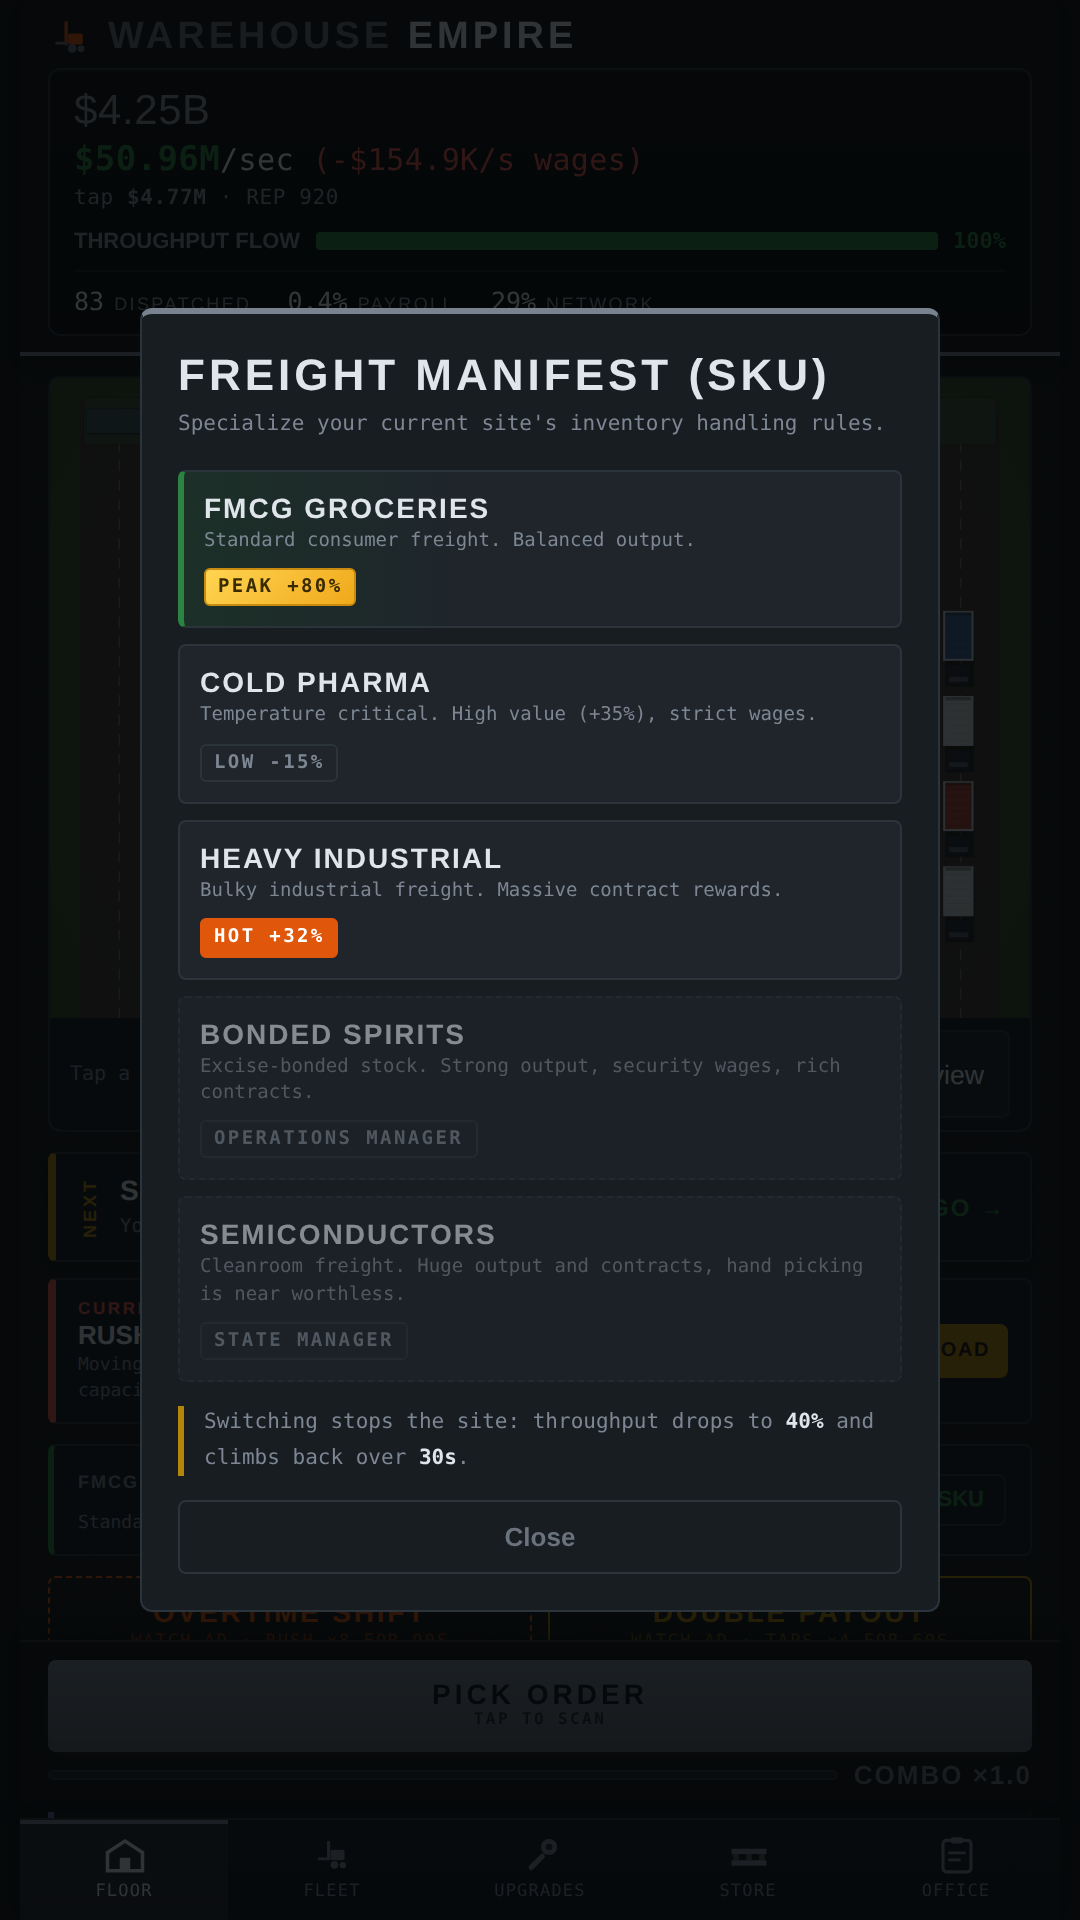
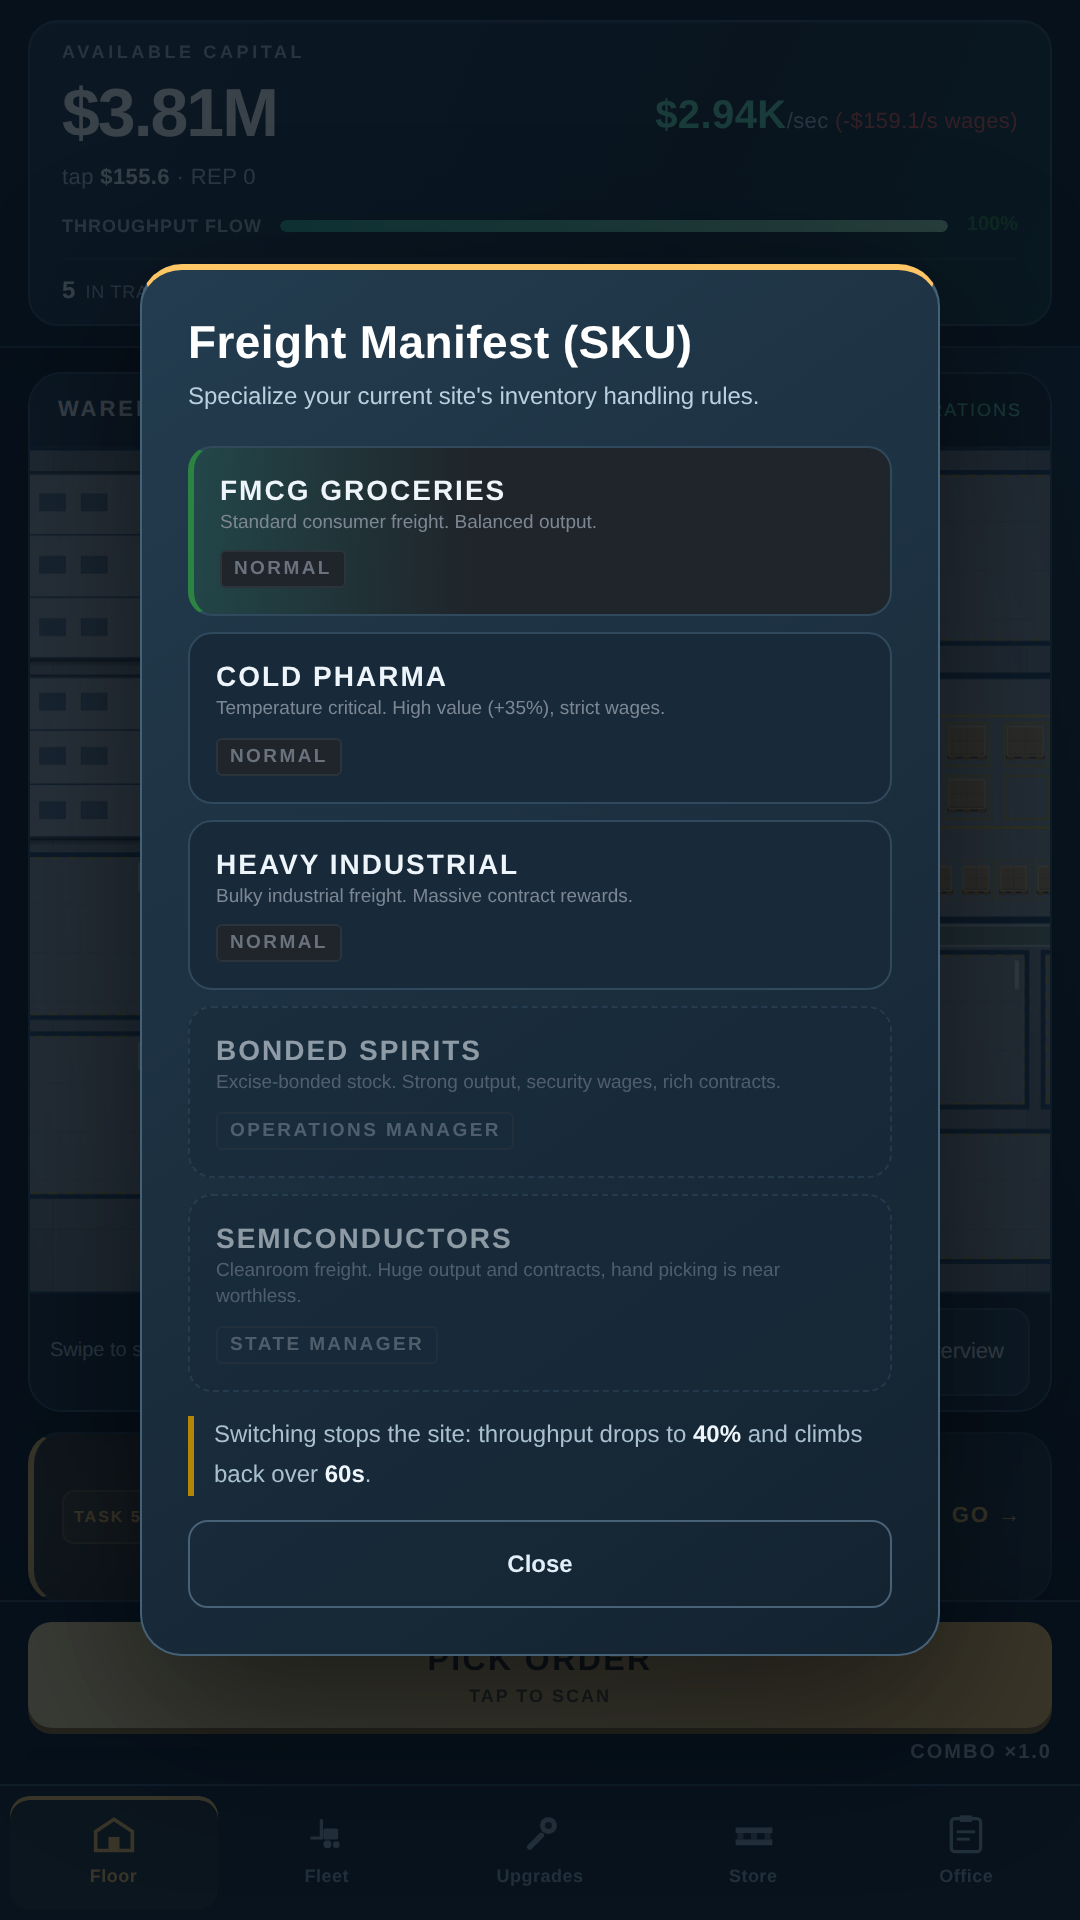
Recapture the store screenshots for 4.4, and commit the script that takes them
4.4 changed the three things every Floor shot contains -- the readout, the
cards below the site and the default camera -- so all eight were replaced.

05-zone is dropped for 02-last-truck: the opening shift is the release's
headline, docked above PICK ORDER with S04 two-thirds loaded. The rest keep
their subjects and listing sections, renumbered; the old files are removed
rather than left beside the new names. 08-network now shows the Melbourne
map.

tools/storeshots.js is committed this time. The 4.0 script lived in a
session scratchpad and had to be rebuilt from the README's description. Two
things it learned on the way, both in the README:

- A seasoned save opens on the streak calendar, which re-queues behind the
  review prompt and lands over the shot after being dismissed once. The
  seeded save marks today's stipend claimed and the one-time asks asked, and
  every shot but the manifests modal clears modals at the shutter.
- Port and night-livery need Overview. At the new working-building framing
  the quay and estate are out of frame, and every site is the same floor.

Every site shot had freight in flight (11-13 units), no page errors, and
analytics was answered locally. The 4.4 checklist now points at the new set.

Claude-Session: https://claude.ai/code/session_01PrK84LBuwqhXmUK59Cwd7A

diff --git a/tools/storeshots.js b/tools/storeshots.js
@@ -1,0 +1,160 @@
+// Play Store phone screenshots, 1080x1920. Run from the repo root after `npm install` in
+// tests/ (it borrows the suite's Playwright and browser lookup):
+//
+//   node tools/storeshots.js            # all eight, into docs/store-screenshots/
+//   node tools/storeshots.js 04 07      # only the shots whose names start with these
+//
+// Committed rather than left in a scratchpad this time: the 4.0 script was, and the next
+// recapture had to be rebuilt from the README's description of it.
+//
+// Each shot opens its own page from a seeded save, so no shot inherits another's state.
+// Google Analytics is answered with a 204 before it leaves the machine, and any page error
+// fails the run -- a screenshot of a broken build is worse than none.
+const path = require("path");
+const fs = require("fs");
+const P = require(path.join(__dirname, "..", "tests", "paths.js"));
+const B = require(path.join(__dirname, "..", "tests", "browser.js"));
+
+const OUT = path.join(__dirname, "..", "docs", "store-screenshots");
+const only = process.argv.slice(2);
+const errors = [];
+
+// A mid-game operation: enough plant that freight crosses the site continuously and the
+// Floor shows a live contract, past the opening shift so its card is not in the way.
+const MID = {
+  launches: 6, lifetime: 4.2e7, total: 4.2e7, money: 3.8e6, contractsDone: 9, taps: 1400,
+  owned: { picker: 60, trolley: 34, forklift: 18, reach: 8, conveyor: 3, sorter: 1 },
+  corp: { hr: 2, tower: 1 },
+  lastTruck: { version: 1, status: "complete", reportSeen: true }
+};
+const LATE = Object.assign({}, MID, {
+  lifetime: 6e13, total: 6e13, money: 4.1e12, rep: 180, prestiges: 6,
+  owned: { picker: 300, trolley: 200, forklift: 150, reach: 100, conveyor: 60, sorter: 30, crane: 12, hub: 5 },
+  corp: { hr: 6, customs: 4, marketing: 3, tower: 5, training: 2, solar: 2, depot: 1, server: 2 }
+});
+
+async function open(b, save){
+  const ctx = await b.newContext({ viewport: { width: 540, height: 960 }, deviceScaleFactor: 2,
+                                   isMobile: true, hasTouch: true });
+  await ctx.route(/google-analytics\.com/, r => r.fulfill({ status: 204, body: "" }));
+  // Today's stipend already claimed and every one-time ask already asked: a seasoned save
+  // otherwise opens on the streak calendar, which then re-queues behind the review prompt
+  // and lands over whatever the shot was of.
+  if (save) await ctx.addInitScript(sv => {
+    const now = Date.now();
+    const full = Object.assign({ lastDailyClaim: now - 60000, dailyStreak: 3, lastSeen: now,
+                                 reviewAsked: true, notifAsked: true }, sv);
+    try { localStorage.setItem("warehouse-empire-save", JSON.stringify(full)); } catch(e){}
+  }, save);
+  const p = await ctx.newPage();
+  p.on("pageerror", e => errors.push(e.message));
+  await p.goto("file://" + P.HTML);
+  await p.waitForTimeout(1800);
+  // A seasoned save earns the streak calendar, the review prompt and the like, and they
+  // queue behind one another. None of them is what any shot is of; the one shot that is of
+  // a modal opens it after this. Twice, for whichever was waiting behind the first.
+  for (let i = 0; i < 2; i++){
+    await p.evaluate(() => document.querySelectorAll(".modal-screen").forEach(m => { m.hidden = true; }));
+    await p.waitForTimeout(500);
+  }
+  return { ctx, p };
+}
+
+// Freight takes about ten seconds to cross the site. A frame grabbed before that shows an
+// empty plan -- the headline feature photographed as missing -- so wait, and say how much
+// was moving, so an idle shot is obvious rather than silent.
+async function settle(p, ms){
+  await p.waitForTimeout(ms || 11000);
+  return p.evaluate(() => window.__freightCount ? window.__freightCount() : -1);
+}
+async function tab(p, name){
+  await p.evaluate(n => document.querySelector('.tabs button[data-tab="' + n + '"]').click(), name);
+  await p.waitForTimeout(500);
+}
+async function shot(p, name, note, keepModal){
+  await p.evaluate(keep => {
+    const t = document.getElementById("toast"); if (t) t.classList.remove("show");
+    if (!keep) document.querySelectorAll(".modal-screen").forEach(m => { m.hidden = true; });
+  }, !!keepModal);
+  await p.screenshot({ path: path.join(OUT, name + ".png") });
+  console.log("  " + name + (note ? "  (" + note + ")" : ""));
+}
+
+const SHOTS = [
+  ["01-site", async b => {
+    const { ctx, p } = await open(b, MID);
+    const n = await settle(p);
+    await shot(p, "01-site", n + " freight in flight"); await ctx.close();
+  }],
+  ["02-last-truck", async b => {
+    // A fresh install, three pallets in and loading the last one: the opening shift with
+    // its task docked above PICK ORDER.
+    const { ctx, p } = await open(b, null);
+    await p.evaluate(() => { const h = window.state.lastTruck; h.cleared = 3; h.elapsed = 17; window.render(); });
+    await p.waitForTimeout(3000);
+    await shot(p, "02-last-truck"); await ctx.close();
+  }],
+  ["03-port", async b => {
+    // Overview: at the working-building framing the quay and the water are out of shot, and
+    // without them this is just another floor.
+    const { ctx, p } = await open(b, Object.assign({}, MID, { site: "port", prestiges: 2, rep: 40 }));
+    await p.click("#canvasOverview");
+    const n = await settle(p);
+    await shot(p, "03-port", n + " freight in flight"); await ctx.close();
+  }],
+  ["04-night-livery", async b => {
+    const { ctx, p } = await open(b, Object.assign({}, MID, { site: "hazmat", prestiges: 3, rep: 70,
+      theme: "nightshift", themesOwned: { nightshift: true } }));
+    await p.click("#canvasOverview");
+    const n = await settle(p);
+    await shot(p, "04-night-livery", n + " freight in flight"); await ctx.close();
+  }],
+  ["05-rush", async b => {
+    // A rush behind schedule: the one card that outranks everything, carrying Expedite.
+    const { ctx, p } = await open(b, MID);
+    await settle(p, 6000);
+    await p.evaluate(() => {
+      const s = window.state;
+      s.contract = { goal: 1.2e6, prog: 2.9e5, mins: 2, deadline: Date.now() + 71000,
+                     label: "RUSH: Clear the backlog", cash: 9.5e5, pallets: 5, rush: true };
+      window.render();
+    });
+    await p.waitForTimeout(600);
+    await p.evaluate(() => document.getElementById("objective").scrollIntoView({ block: "center" }));
+    await p.evaluate(() => document.getElementById("bottleneck").scrollIntoView({ block: "center" }));
+    await p.waitForTimeout(600);
+    await shot(p, "05-rush"); await ctx.close();
+  }],
+  ["06-manifests", async b => {
+    // A modal on purpose: nothing here may hide modals.
+    const { ctx, p } = await open(b, Object.assign({}, MID, { lifetime: 3e9, total: 3e9 }));
+    await p.evaluate(() => document.getElementById("openSkuBtn").click());
+    await p.waitForTimeout(700);
+    await shot(p, "06-manifests", "", true); await ctx.close();
+  }],
+  ["07-fleet", async b => {
+    const { ctx, p } = await open(b, Object.assign({}, MID, { money: 2.4e7 }));
+    await tab(p, "equip");
+    await shot(p, "07-fleet"); await ctx.close();
+  }],
+  ["08-network", async b => {
+    const names = ["Truganina","Dandenong","Laverton","Port Melbourne","Somerton","Keysborough","Derrimut",
+                   "Campbellfield","Braeside","Altona","Epping","Pakenham","Tullamarine","Clayton"];
+    const ids = ["general","cold","hazmat","port"];
+    const network = names.map((n, i) => ({ id: ids[i % 4], peak: 2.4e8 * (1 + (i * 7) % 5), suburb: n, inv: (i * 3) % 6 }));
+    const { ctx, p } = await open(b, Object.assign({}, LATE, { network }));
+    await tab(p, "office");
+    await p.evaluate(() => document.getElementById("netMapWrap").scrollIntoView({ block: "center" }));
+    await p.waitForTimeout(700);
+    await shot(p, "08-network"); await ctx.close();
+  }]
+];
+
+(async () => {
+  fs.mkdirSync(OUT, { recursive: true });
+  const b = await B.launch();
+  for (const [name, run] of SHOTS)
+    if (!only.length || only.some(o => name.startsWith(o))) await run(b);
+  await b.close();
+  if (errors.length){ console.error("page errors:\n  " + errors.join("\n  ")); process.exit(1); }
+})();

diff --git a/docs/store-screenshots/README.md b/docs/store-screenshots/README.md
@@ -1,44 +1,51 @@
 # Play Store phone screenshots
 
-Captured from **4.0 (v27)**. 1080×1920 (9:16), which is Play's phone aspect —
-a 540×960 viewport at deviceScaleFactor 2 hits it exactly, and the app's 520px
-max-width sits inside that on its own background, so the thin side bands read as
-page rather than letterboxing.
+Captured from **4.4 (v31)**. 1080×1920 (9:16), which is Play's phone aspect.
+A 540×960 viewport at deviceScaleFactor 2 hits it exactly.
 
 Play accepts 2–8 phone screenshots. This is eight, and the order matters: Play
-shows the first two or three side by side, and the site canvas is only about a
-fifth of a portrait frame, so **adjacent shots have to differ in colour** to read
-as different at thumbnail size.
+shows the first two or three side by side, so **adjacent shots have to differ**
+to read as different at thumbnail size.
 
 | | Shows | Listing section |
 |---|---|---|
-| `01-site` | The plan running, freight in transit, new steel chrome | WATCH THE SITE RUN |
-| `02-port` | Port Terminal — containers and open water | FOUR SITES |
-| `03-night-livery` | Dangerous Goods at night on another livery | FOUR SITES |
-| `04-rush` | A rush contract behind schedule, Priority Dispatch offered | RUN FREIGHT AGAINST THE CLOCK |
-| `05-zone` | Sorting inspected, with its equipment counts | WATCH THE SITE RUN |
-| `06-manifests` | All five, in three different market states, two locked | CHOOSE YOUR MANIFEST |
-| `07-fleet` | The eight-tier equipment ladder | CLIMB THE EQUIPMENT LADDER |
-| `08-network` | Retired sites as a managed layer | SELL UP AND BUILD A NETWORK |
+| `01-site` | The working building at the new opening zoom, freight in transit | WATCH THE SITE RUN |
+| `02-last-truck` | The opening shift: S04 two-thirds loaded, the task docked above PICK ORDER | *(new in 4.4)* |
+| `03-port` | Port Terminal in Overview: container stacks in the racking | FOUR SITES |
+| `04-night-livery` | Dangerous Goods on the Night Shift livery: drum cages, dark estate | FOUR SITES |
+| `05-rush` | A rush behind schedule: the bottleneck card with Expedite, and the Contracts panel | RUN FREIGHT AGAINST THE CLOCK |
+| `06-manifests` | All five, three open and two locked | CHOOSE YOUR MANIFEST |
+| `07-fleet` | The equipment ladder, with the marginal gain on each card | CLIMB THE EQUIPMENT LADDER |
+| `08-network` | Fourteen retired sites on the Melbourne map, above the list | SELL UP AND BUILD A NETWORK |
 
 ## Why the whole set was replaced
 
-The previous set was captured from 3.7 and every frame showed the hi-vis chrome
-that 4.0 removed, on a plan with no freight moving on it — so all eight
-photographed the two things this release changed, as absent.
+4.4 changed the three things every Floor shot contains: the readout (it folds, and
+the brand row is gone), the cards below the site, and the default camera. `05-zone`
+was dropped for `02-last-truck`, because the opening shift is the release's headline
+and the zone panel is not. Every file after `01` was renumbered, so the old names were
+removed rather than left beside the new ones.
 
 ## Recapturing
 
-`storeshots40.js` in the session scratchpad. Two things it has to get right,
-both learned by getting them wrong:
+    node tools/storeshots.js          # all eight
+    node tools/storeshots.js 05       # just one
+
+It lives in the repo now. The 4.0 script was left in a session scratchpad and had
+to be rebuilt from this README. Things it has to get right, all learned by getting
+them wrong:
 
 - **Freight takes about ten seconds to cross the site.** A frame grabbed early
   catches an empty plan, which photographs the headline feature as missing. The
-  capture waits, and prints the in-flight count so a shot taken on an idle site
-  is obvious rather than silent.
-- **A shot that is deliberately of a modal must not use `clean()`**, which hides
-  every modal including the one being photographed. That is how the 3.7 manifests
-  shot came back as the floor tab.
+  script waits, and prints the in-flight count so an idle shot is obvious.
+- **A seasoned save opens on the streak calendar**, which re-queues behind the review
+  prompt and lands over the shot after it has been dismissed once. The seeded save marks
+  today's stipend claimed and the one-time asks asked, and every shot clears modals at
+  the shutter.
+- **The one shot that is of a modal (`06`) must keep it.** That is how the 3.7
+  manifests shot came back as the Floor tab.
+- **Port and night-livery shots need Overview.** At the working-building framing the
+  quay and the estate are out of frame, and all four sites look like the same floor.
 
-The run also asserts no page errors and routes Google Analytics to a 204, so a
-capture can never post telemetry even though the committed file has no keys.
+Google Analytics is answered with a 204 before it leaves the machine, and any page
+error fails the run.

diff --git a/docs/release-notes-4.4.md b/docs/release-notes-4.4.md
@@ -109,9 +109,10 @@ the app no longer loses it.
    dimension binds to a parameter name across every event that sends it.
 3. **Privacy policy and data safety: no change needed.** The new events are app
    interaction, which is already declared, and they carry no new kind of data.
-4. **The store screenshots are out of date.** The readout, the Floor and the
-   default camera have all changed. Recapture before or alongside this release.
-   The listing text does not describe any of the changed UI, so it can stay.
+4. **Upload the new store screenshots**, replacing all eight. They are in
+   `docs/store-screenshots/`, recaptured from this build; that folder's README lists
+   the order and what each one shows. The listing text doesn't describe any of the
+   changed UI, so it can stay.
 5. **Reading the numbers:** the opening is new, so `objective_done` step
    comparisons across 4.2 and 4.4 are comparing two different openings. Read new
    players' first session from `truck_beat` instead.
